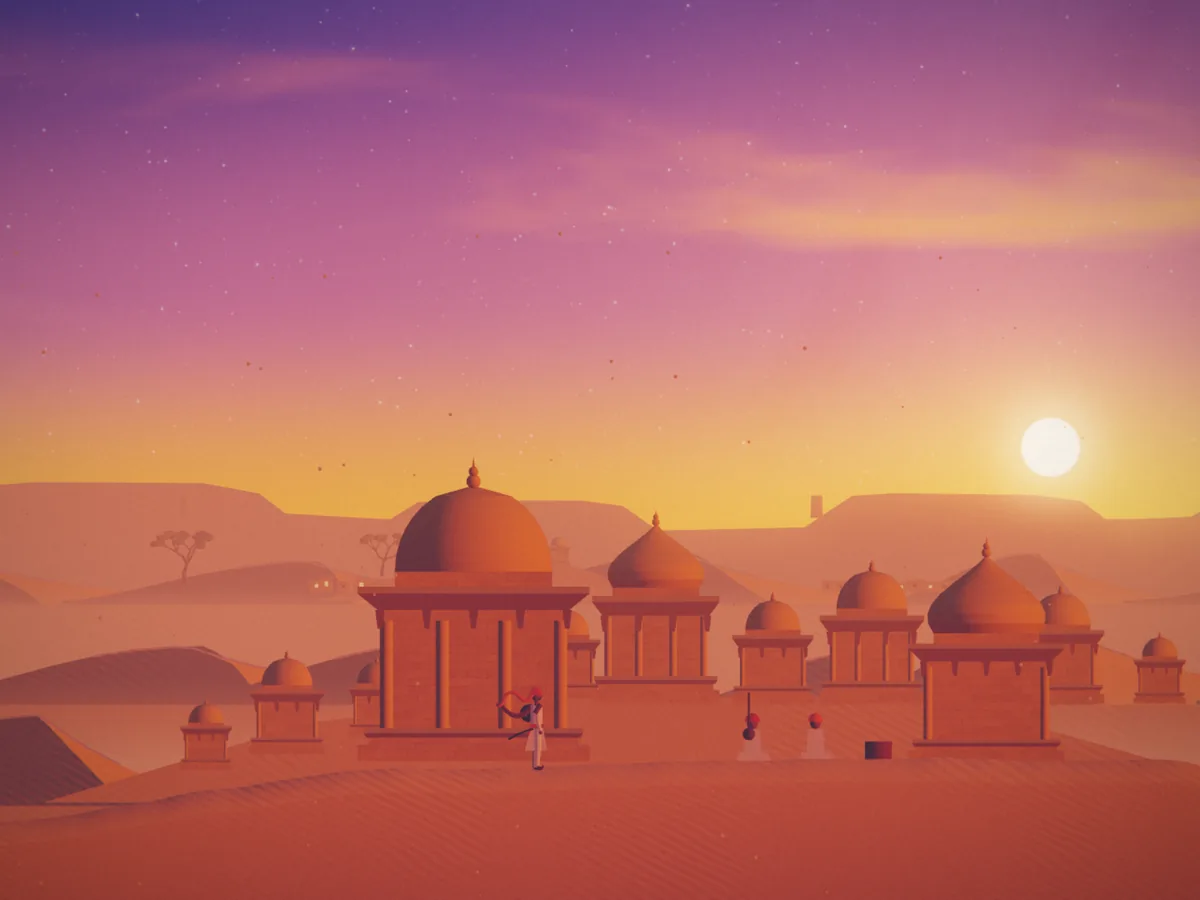
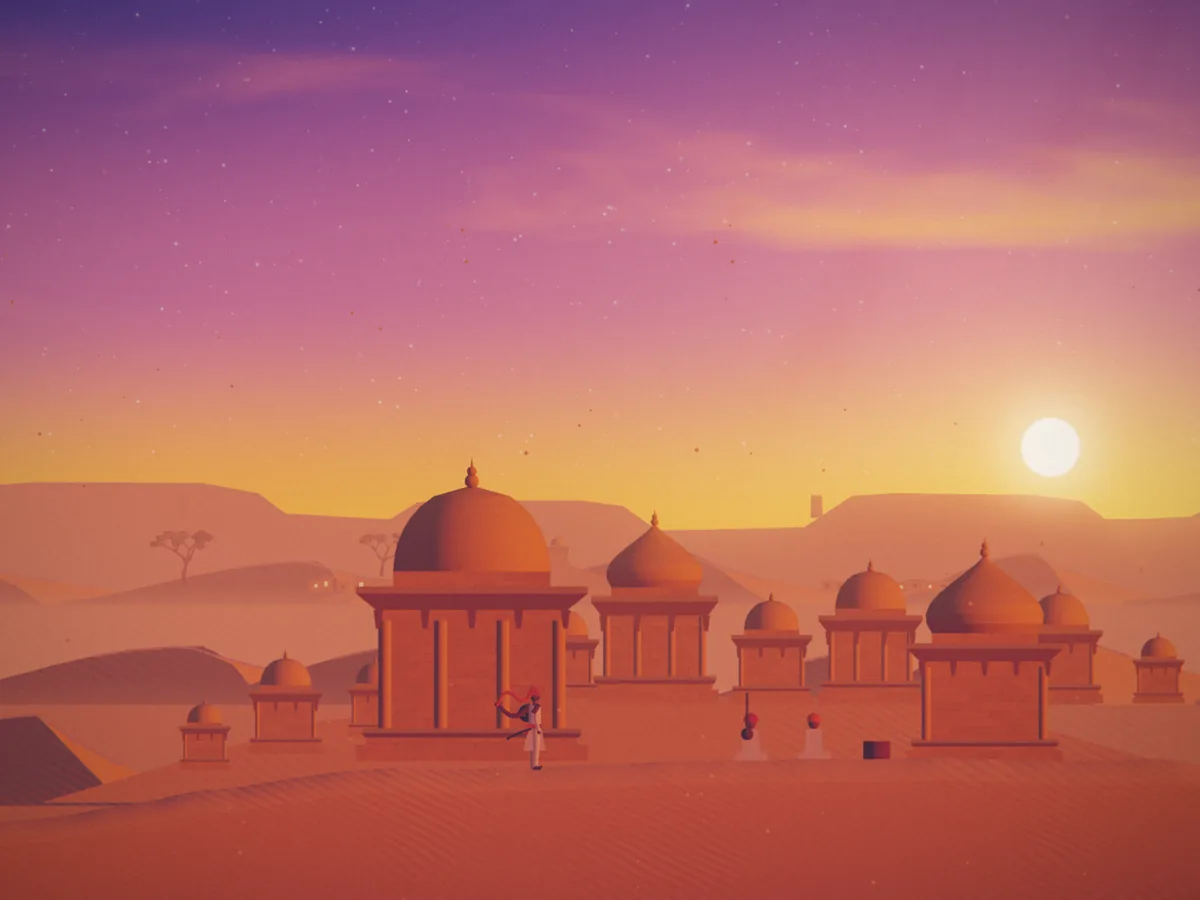
Polish mobile framing, stepwell depth and foreground
Portrait phones frame the ground higher and set the station card on a
soft scrim so it reads over busy scenes. Landscape phones get a compact
card. The stepwell pit darkens as it descends, near layers no longer
wash out in low haze, and the foreground rock blobs are gone. Stills
regenerated.

Claude-Session: https://claude.ai/code/session_01HEuHS4ADKt79FAKxfo7qcZ

diff --git a/src/world/art/arch.ts b/src/world/art/arch.ts
@@ -305,31 +305,34 @@ export function house(m: Mesh, x: number, y: number, w: number, h: number, color
 }
 
 /** Stepped pyramid of stairs: the repeating module of a stepwell wall. */
-export function stairModule(m: Mesh, x: number, y: number, w: number, h: number, steps: number, color: V3) {
+export function stairModule(m: Mesh, x: number, y: number, w: number, h: number, steps: number, color: V3, riser = 0.25, ao = 0.85) {
   const sw = w / 2 / steps, sh = h / steps;
   for (let i = 0; i < steps; i++) {
     const x0 = x + i * sw, x1 = x + w - i * sw;
     const yy = y + i * sh;
     // tread (lit, faces up) and riser (front, darker)
-    m.quad(x0, yy + sh * 0.7, x1, yy + sh * 0.7, x1 - sw, yy + sh, x0 + sw, yy + sh, plain(color, { n: UP }));
-    m.rect(x0, yy, x1 - x0, sh * 0.7, plain(mix3(color, RECESS, 0.25), { ao: 0.85 }));
+    m.quad(x0, yy + sh * 0.7, x1, yy + sh * 0.7, x1 - sw, yy + sh, x0 + sw, yy + sh, plain(color, { n: UP, ao: Math.min(1, ao + 0.15) }));
+    m.rect(x0, yy, x1 - x0, sh * 0.7, plain(mix3(color, RECESS, riser), { ao }));
   }
 }
 
 /** Back wall of a stepwell: levels of interlocking stair flights. */
 export function stepwellWall(m: Mesh, x: number, top: number, w: number, depth: number, color: V3) {
-  m.rect(x, top - depth, w, depth, plain(mix3(color, RECESS, 0.55), { ao: 0.8 }));
+  m.rect(x, top - depth, w, depth, plain(mix3(color, RECESS, 0.72), { ao: 0.6 }));
   const rows = Math.floor(depth / 26);
   for (let r = 0; r < rows; r++) {
     const yy = top - depth + r * 26 + 2;
+    const u = r / Math.max(1, rows - 1); // 0 at the water, 1 at the rim
+    const ao = 0.45 + 0.5 * u; // the pit darkens as it descends
     // ledge
-    m.quad(x, yy + 22, x + w, yy + 22, x + w, yy + 24, x, yy + 24, plain(color, { n: UP }));
+    m.quad(x, yy + 22, x + w, yy + 22, x + w, yy + 24, x, yy + 24, plain(color, { n: UP, ao: Math.min(1, ao + 0.2) }));
+    m.rect(x, yy + 20, w, 2, plain(mix3(color, RECESS, 0.6), { ao }));
     const mw = 52;
     const off = r % 2 === 0 ? 0 : mw / 2;
     for (let xx = x - mw + off; xx < x + w; xx += mw) {
       const a = Math.max(x, xx), b = Math.min(x + w, xx + mw);
       if (b - a < mw * 0.98) continue;
-      stairModule(m, a + 2, yy, mw - 4, 22, 5, color);
+      stairModule(m, a + 2, yy, mw - 4, 22, 5, color, 0.48, ao);
     }
   }
 }

diff --git a/src/styles/world.css b/src/styles/world.css
@@ -213,11 +213,19 @@ button { font: inherit; color: inherit; }
 
 /* ---------------- small screens ---------------- */
 @media (max-width: 720px) {
-  #card { top: auto; bottom: 150px; left: 16px; }
+  #card { top: auto; bottom: 128px; left: 16px; }
+  #card::before {
+    content: ''; position: fixed; left: 0; right: 0; bottom: 0; height: 58vh; z-index: -1; pointer-events: none;
+    background: linear-gradient(to top, rgba(246, 234, 212, 0.94) 0%, rgba(246, 234, 212, 0.86) 52%, rgba(246, 234, 212, 0) 100%);
+    opacity: 0; transition: opacity 0.8s var(--ease), background 1.2s;
+  }
+  #card.show::before { opacity: 1; }
+  .night #card::before { background: linear-gradient(to top, rgba(8, 10, 28, 0.9) 0%, rgba(8, 10, 28, 0.78) 52%, rgba(8, 10, 28, 0) 100%); }
+  #card .t-title, #card .t-hero, #card .t-line { text-shadow: none; }
   .t-hero { font-size: clamp(48px, 15vw, 72px); }
   .t-title { font-size: clamp(36px, 11vw, 52px); }
   .t-line { font-size: 18px; margin-bottom: 14px; }
-  #sunpath { width: min(360px, 74vw); right: 12px; left: auto; transform: none; }
+  #sunpath { width: min(360px, calc(100vw - 168px)); right: 12px; left: auto; transform: none; }
   #place { bottom: 18px; }
   .pl-local { font-size: 20px; }
   .pl-en { font-size: 14px; }
@@ -226,6 +234,17 @@ button { font: inherit; color: inherit; }
 @media (max-width: 720px) and (max-height: 640px) {
   #card { bottom: 120px; }
   .t-line { display: none; }
+}
+@media (max-height: 520px) and (min-width: 600px) {
+  #card { top: 64px; bottom: auto; width: min(400px, 50vw); }
+  #card::before { display: none; }
+  .t-hero { font-size: 46px; margin-bottom: 8px; }
+  .t-title { font-size: 34px; margin-bottom: 6px; }
+  .t-meta { margin-bottom: 8px; }
+  .t-line { font-size: 15px; margin-bottom: 10px; }
+  .t-actions .read, .t-actions a { padding: 7px 14px; font-size: 13px; }
+  #place { display: none; }
+  #sunpath { width: 220px; left: auto; right: 16px; transform: none; }
 }
 @media (prefers-reduced-motion: reduce) {
   * { transition-duration: 0.01ms !important; animation: none !important; }

diff --git a/src/world/layout.ts b/src/world/layout.ts
@@ -262,11 +262,6 @@ export function buildWorld(): World {
       const wx = x / fg.par;
       const gy = height(wx) - 70 - r() * 60;
       if (r() > 0.25) grass(m, x, gy - 40, 70 + r() * 70, Math.floor(r() * 1e5), hex('#8a7448'));
-      else if (r() > 0.5) {
-        const bw = 30 + r() * 50;
-        blob(m, x, gy - 70, bw, bw * 0.5, { color: hex('#6a4a30'), mat: MAT.stone }, Math.floor(r() * 1e5));
-        blob(m, x + bw * 0.7, gy - 76, bw * 0.55, bw * 0.3, { color: hex('#5a3e28'), mat: MAT.stone }, Math.floor(r() * 1e5));
-      }
     }
     // a framing khejri at the very start, and a carved pillar in the town
     m.at(START_X * fg.par - 380, height(START_X) - 140, 1.5, () => khejri(m, 0, 0, 260, 7, { sway: 0.8 }));

diff --git a/src/work/render.ts b/src/work/render.ts
@@ -91,7 +91,7 @@ export function renderWork() {
     <a href="/" aria-label="Enter the journey">
       <picture>
         <source media="(max-width: 700px)" srcset="/media/still-fort-m.webp">
-        <img src="/media/still-fort.webp" alt="The golden fort of Jaisalmer at sunrise, with a traveller in a saffron turban walking west" width="2400" height="1029">
+        <img src="/media/still-fort.webp" alt="The royal cenotaphs outside Jaisalmer at sunset, with a traveller in a saffron turban walking west" width="2400" height="1029">
       </picture>
     </a>
     <figcaption>This site is also a walk across the Thar, from before dawn to the last fire. <a href="/">Enter it</a> when you have five minutes.</figcaption>

diff --git a/src/world/main.ts b/src/world/main.ts
@@ -218,7 +218,7 @@ export function start() {
     const look = trav.dir * 140 * (0.4 + trav.speed01);
     camX += (trav.x + look - camX) * (1 - Math.exp(-dt * 2.4));
     const viewH = (stillVH || piecewise(camX, SX, STATION_VIEW)) * (innerWidth < innerHeight ? 1.25 : 1);
-    const desiredY = Math.max(trav.y, world.height(camX)) + viewH * 0.2 + stillDY;
+    const desiredY = Math.max(trav.y, world.height(camX)) + viewH * (innerWidth < innerHeight ? 0.04 : 0.2) + stillDY;
     camY += (desiredY - camY) * (1 - Math.exp(-dt * 2.2));
 
     const tDay = piecewise(camX, SX, STATION_T);

diff --git a/src/world/shaders.ts b/src/world/shaders.ts
@@ -114,7 +114,7 @@ void main(){
   col *= uDarken;
   float haze = clamp(uFog, 0.0, 1.0);
   // low ground haze thickens toward the horizon of each layer
-  haze = max(haze, clamp(exp(-(vWorld.y - uHazeY) * 0.012) * uFog * 1.1, 0.0, 0.7));
+  haze = max(haze, clamp(exp(-(vWorld.y - uHazeY) * 0.012) * uFog * 1.1, 0.0, min(0.7, uFog * 1.5)));
   col = mix(col, uFogCol, haze);
   o = vec4(col, 0.0);
 }`;
